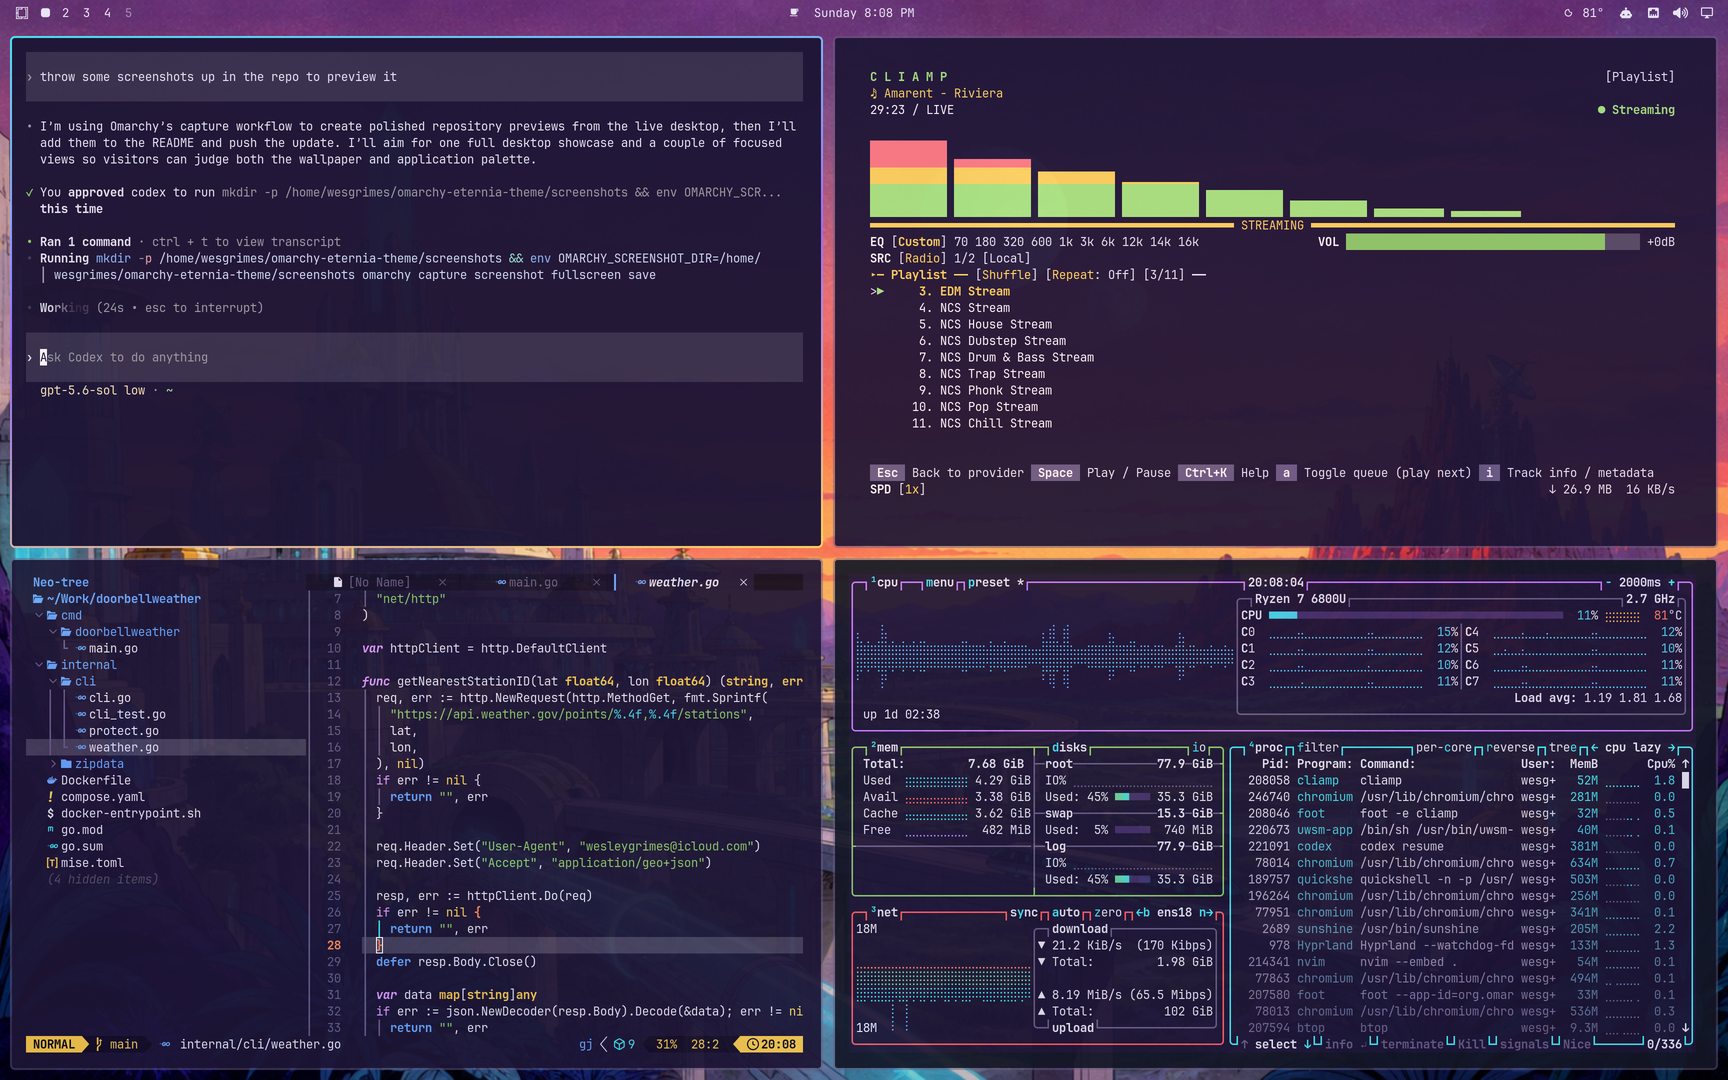
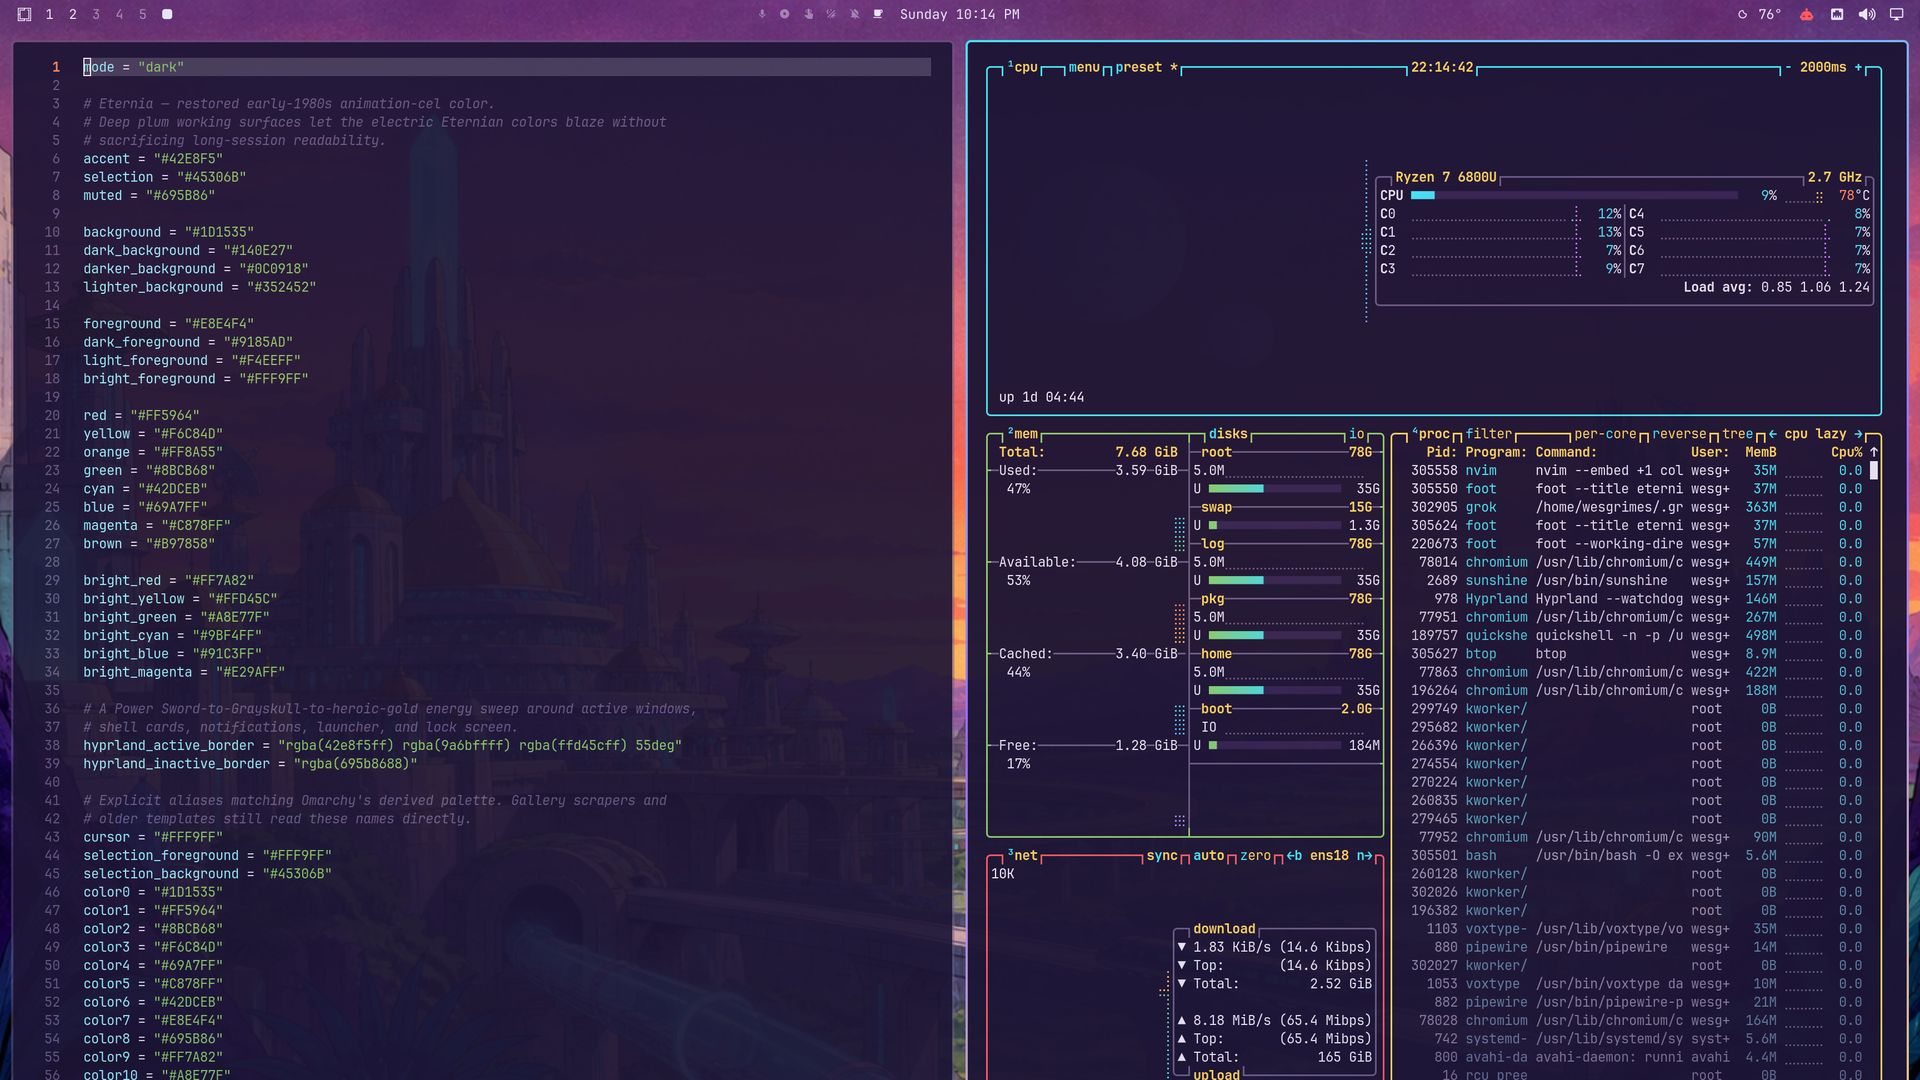
Ready Eternia for extra themes listing
Ship 16:9 desktop previews without personal data, add ANSI and cursor
aliases for gallery scrapers, and include the 1200x675 WebP used by
omarchy.org/themes.

diff --git a/README.md b/README.md
@@ -17,7 +17,7 @@ violet to gold.
 | Eternian Command Center | Handcrafted transparent btop instrumentation with distinct Power, Life, Threat, and Operations colors | `btop.theme` |
 | Grayskull lock screen | Translucent dark panel, quiet violet idle state, energized typing border, gold selection, and Horde-red failure state | `shell.lock.toml` |
 | Seven illustrated worlds | Castle Grayskull, Eternos, Point Dread, Snake Mountain, Crystal Castle, and Skeletor's throne room | `backgrounds/` |
-| Desktop integration | Yaru Magenta icon preference and an Eternos theme-switcher preview | `icons.theme`, `preview.png` |
+| Desktop integration | Yaru Magenta icon preference and a 16:9 theme-switcher preview | `icons.theme`, `preview.png` |
 | Optional villain commentary | Four rate-limited Skeletor clips when a native application dumps core | `install-easter-eggs`, `sounds/` |
 
 From the core palette, Omarchy safely generates matching configurations for
